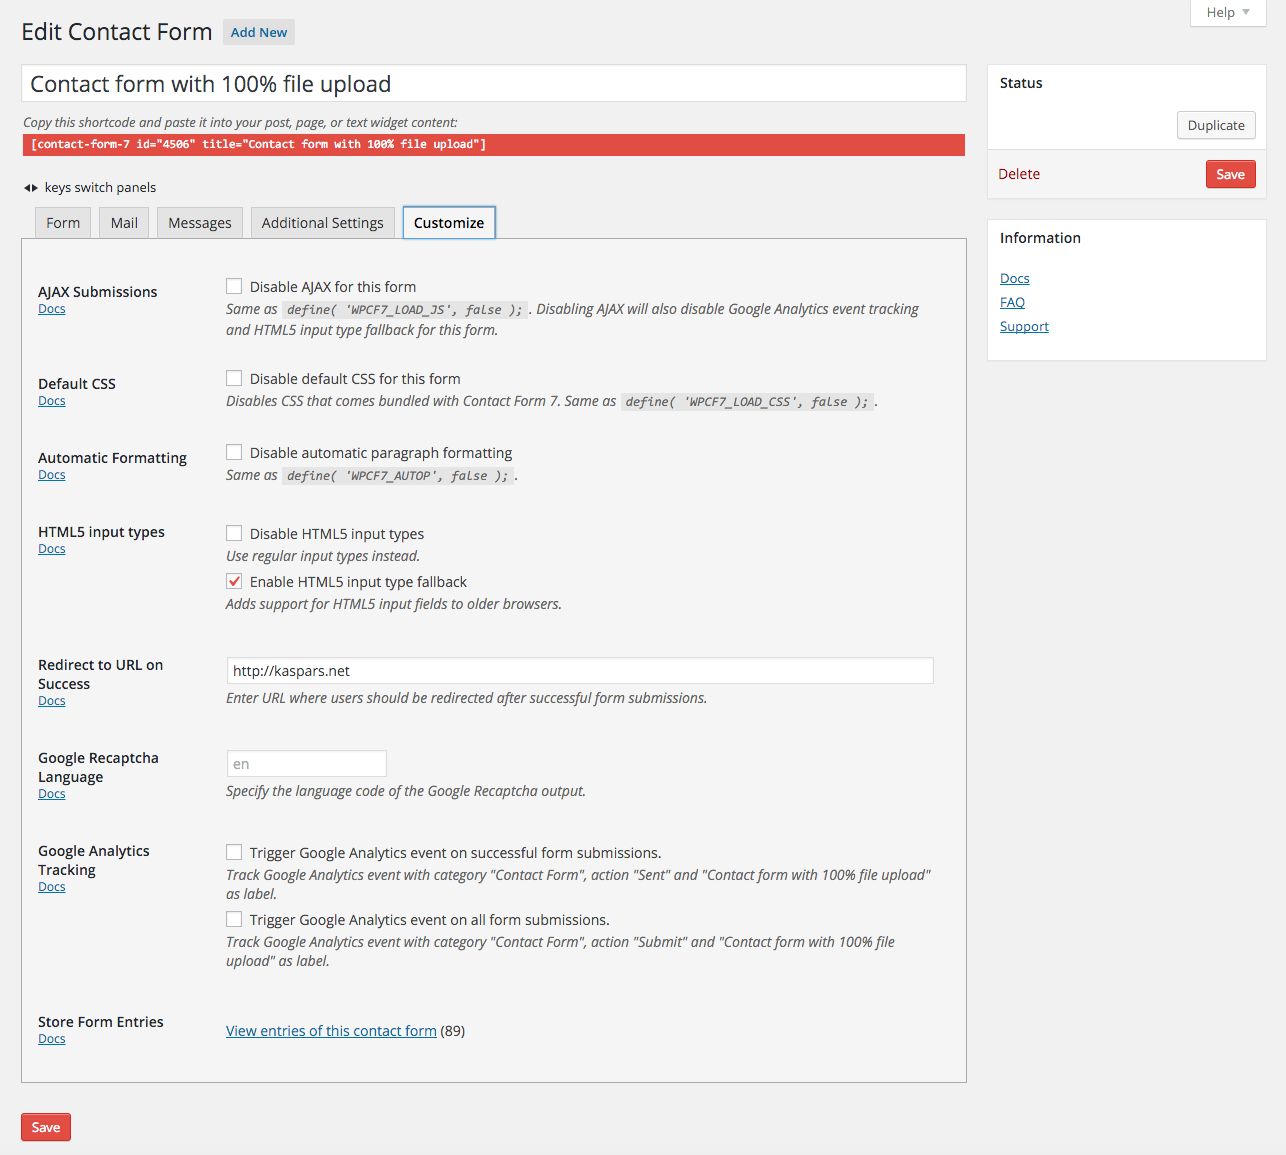
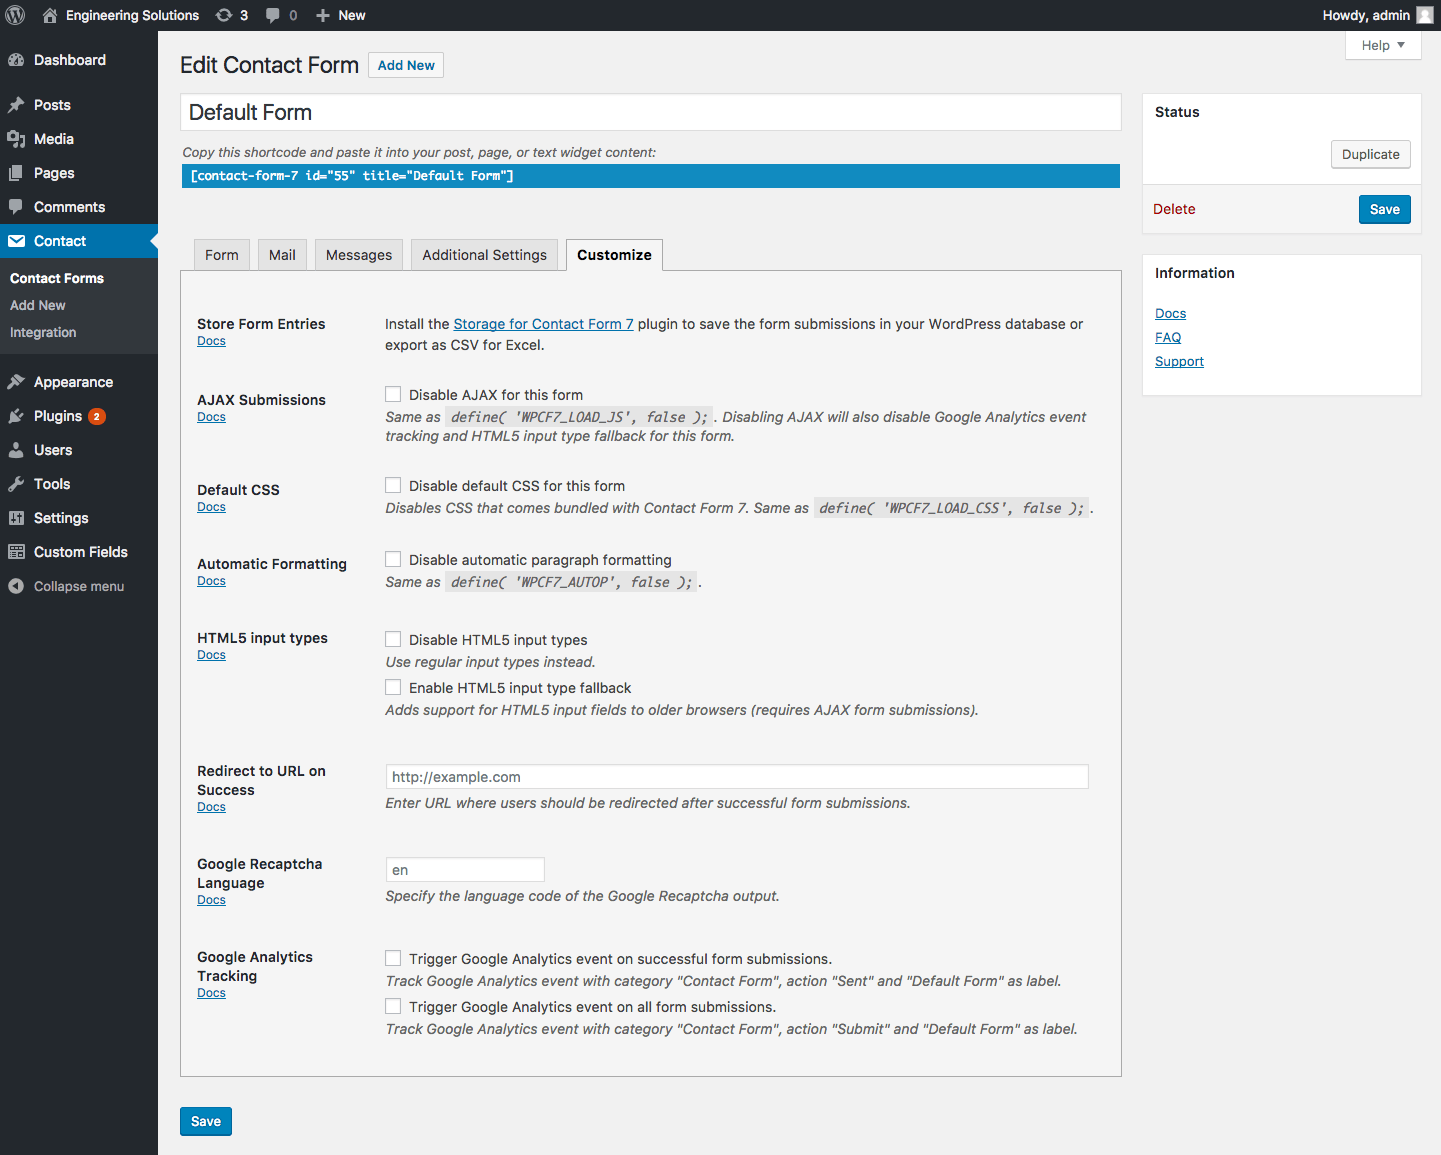
Confirm to work with WP 4.7.3

diff --git a/plugin.php b/plugin.php
@@ -6,8 +6,8 @@
 	Plugin URI: https://github.com/kasparsd/contact-form-7-extras
 	Author: Kaspars Dambis
 	Author URI: https://kaspars.net
-	Version: 0.3.4
-	Tested up to: 4.7
+	Version: 0.3.5
+	Tested up to: 4.7.3
 	License: GPL2
 	Text Domain: cf7-extras
 */
@@ -249,9 +249,9 @@ class cf7_extras {
 					'posts_per_page' => -1
 				) );
 
-			$fields['extra-cf7-storage'] = array(
+			$storage_field = array(
 					'label' => __( 'Store Form Entries', 'cf7-extras' ),
-					'docs_url' => 'http://codecanyon.net/item/storage-for-contact-form-7-/7806229?ref=Preseto',
+					'docs_url' => 'https://codecanyon.net/item/storage-for-contact-form-7-/7806229?ref=Preseto',
 					'field' => sprintf(
 						'<p>%s</p>',
 						sprintf(
@@ -265,19 +265,25 @@ class cf7_extras {
 
 		} else {
 
-			$fields['extra-cf7-storage'] = array(
+			$storage_field = array(
 					'label' => __( 'Store Form Entries', 'cf7-extras' ),
-					'docs_url' => 'http://codecanyon.net/item/storage-for-contact-form-7-/7806229?ref=Preseto',
+					'docs_url' => 'https://codecanyon.net/item/storage-for-contact-form-7-/7806229?ref=Preseto',
 					'field' => sprintf(
 						'<p>%s</p>',
 						sprintf(
 							esc_html__( 'Install the %s plugin to save the form submissions in your WordPress database or export as CSV for Excel.', 'cf7-extras' ),
-							'<a href="http://codecanyon.net/item/storage-for-contact-form-7-/7806229?ref=Preseto">Storage for Contact Form 7</a>'
+							'<a href="https://codecanyon.net/item/storage-for-contact-form-7-/7806229?ref=Preseto">Storage for Contact Form 7</a>'
 						)
 					)
 				);
 
 		}
+
+		// Place the storage links on top
+		$fields = array_merge(
+			array( 'extra-cf7-storage' => $storage_field ),
+			$fields
+		);
 
 		$rows = array();
 

diff --git a/readme.md b/readme.md
@@ -3,7 +3,7 @@
 Contributors: kasparsd, buzztone   
 Tags: Contact Form 7, cf7, admin, backend, redirect, tracking, google analytics, ga, simple, interface, dashboard, recaptcha   
 Requires at least: 3.0   
-Tested up to: 4.7   
+Tested up to: 4.7.3   
 Stable tag: trunk   
 
 Adds simple controls for some of the advanced functionality of the Contact Form 7 plugin.
@@ -11,21 +11,18 @@ Adds simple controls for some of the advanced functionality of the Contact Form 
 
 ## Description
 
-This plugin adds simple admin controls for the following customization of the [Contact Form 7](http://wordpress.org/plugins/contact-form-7/) form output:
+This plugin enables simple controls for some of the advanced features of the [Contact Form 7](http://wordpress.org/plugins/contact-form-7/) plugin:
 
-- Disable AJAX form submission
+- Disable AJAX form submissions
 - Disable default form CSS
 - Disable automatic paragraph formatting
 - Disable HTML5 input field types or enable the HTML5 input type fallback
 - Track form submissions and completions with Google Analytics
 - Redirect to URL on form submission
-- Specify Google Recaptcha language.
+- Specify the Google Recaptcha language
 
-Note that some settings work on per-page level and will inherit for all forms on the same page. For example, disabling AJAX form submissions for one form will disable AJAX submissions on all forms on _that page_.
+Please note that some settings work on per-page level and will inherit for all forms on the same page. For example, disabling AJAX form submissions for one form will disable AJAX submissions on all forms on the same page.
 
-### Saving Form Submissions in WordPress
-
-The "[Storage for Contact Form 7](http://codecanyon.net/item/storage-for-contact-form-7-/7806229)" plugin automatically stores all the contact form submissions (including attachments) in your WordPress database. It also provides the CSV export of the form entries.
 
 ### Get Involved
 
@@ -39,7 +36,10 @@ Search for "Contact Form 7 Controls" using the standard plugin installer.
 
 ## Frequently Asked Questions
 
-None, yet.
+### How to save Contact Form 7 submissions in the WordPress database?
+
+The "[Storage for Contact Form 7](https://codecanyon.net/item/storage-for-contact-form-7-/7806229)" plugin stores all contact form submissions (including attachments) securely in the WordPress database. It also provides a CSV export of the form entries.
+
 
 
 ## Screenshots
@@ -48,6 +48,10 @@ None, yet.
 
 
 ## Changelog
+
+### 0.3.5 (April 6, 2017)
+
+- Confirm that the plugin works with WordPress 4.7.3.
 
 ### 0.3.4 (January 2, 2017)
 
